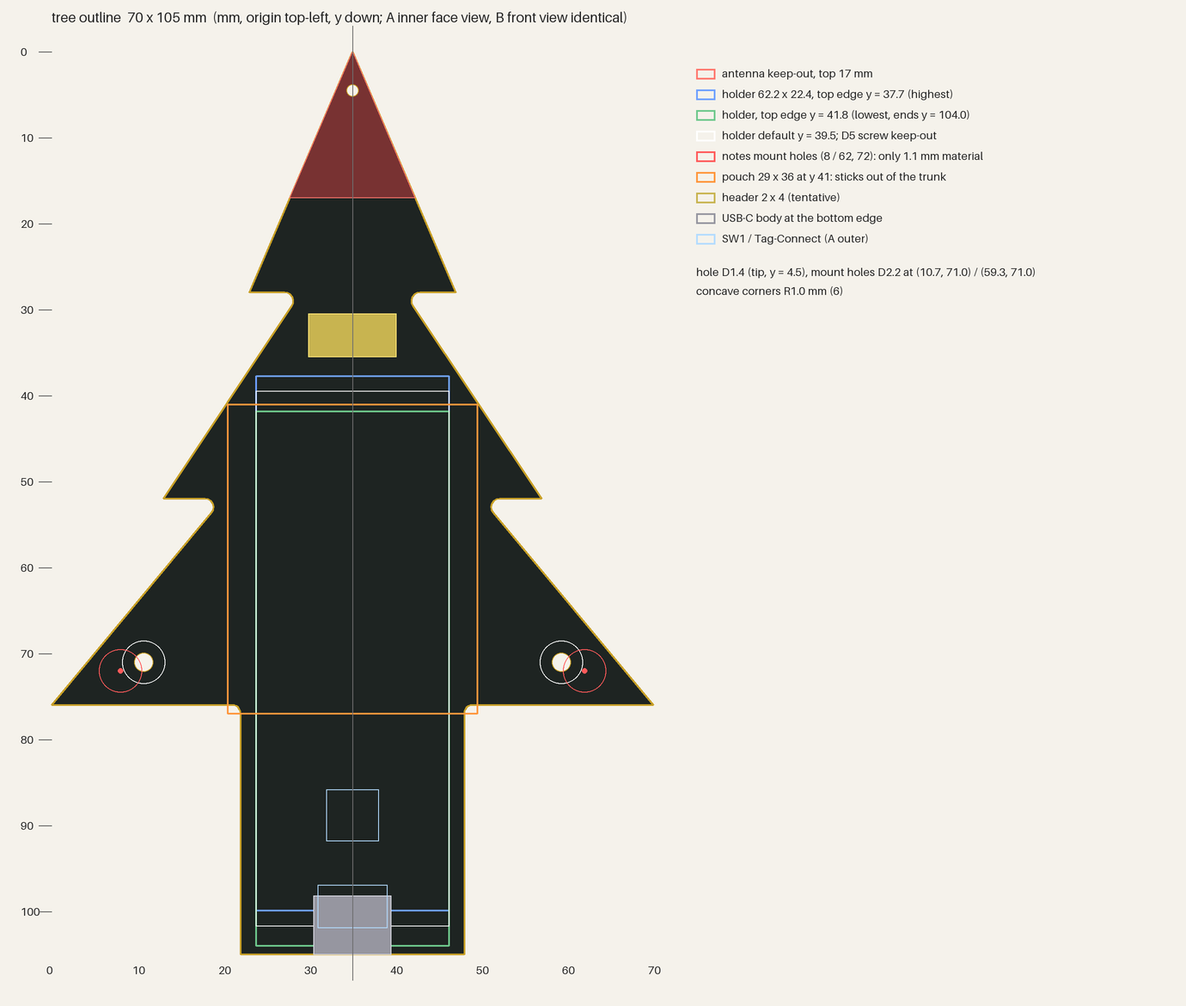
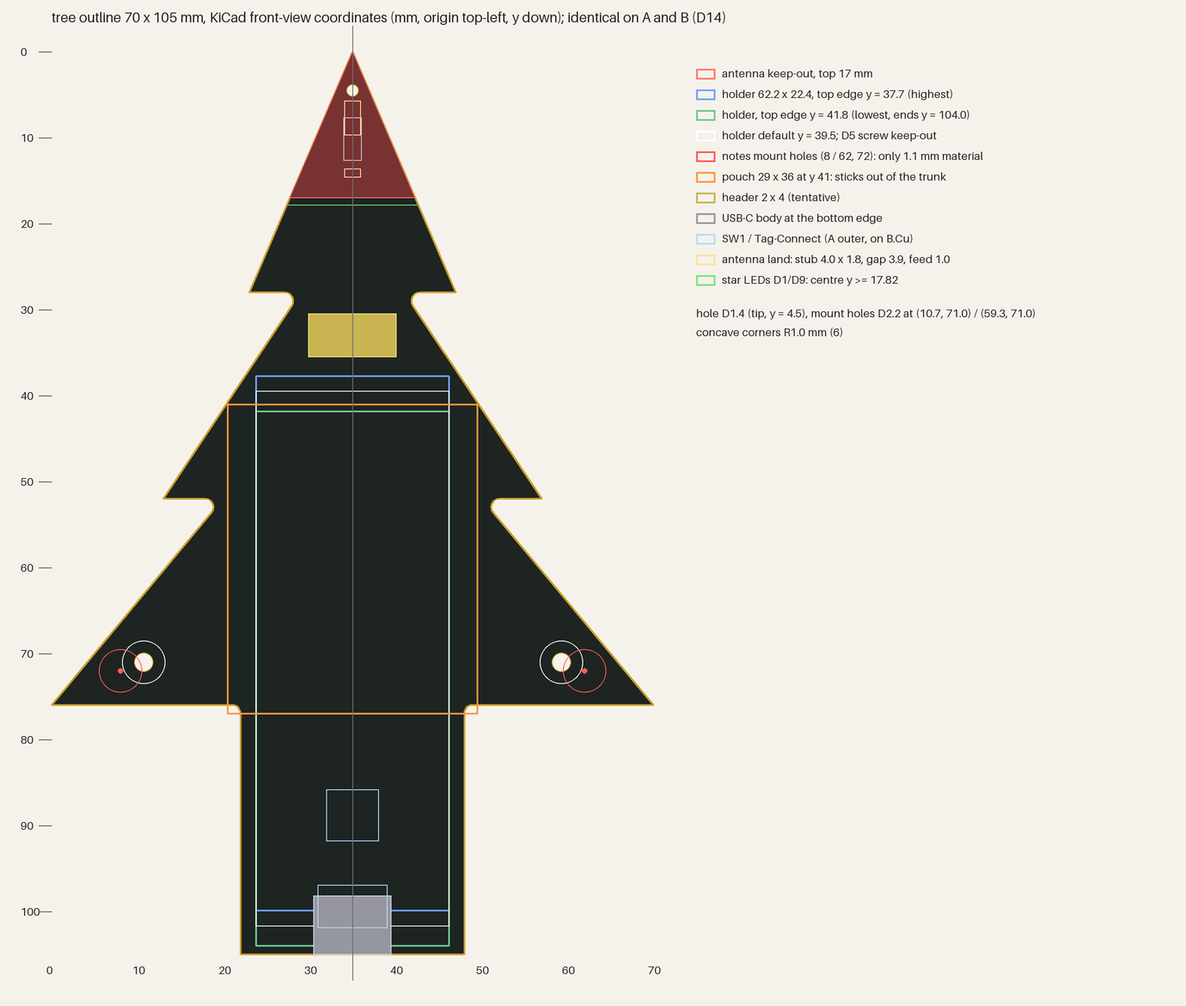
Outline module: D14 identity stack rule (mirror helpers removed), antenna land fit in the tip, star LED earliest y, MECHANICAL.md complete, previews

diff --git a/hardware/gen/tree_outline.py b/hardware/gen/tree_outline.py
@@ -8,17 +8,19 @@ CONVENTIONS
   Units mm.  Origin = top-left corner of the 70 x 105 mm bounding box, x to the right, y DOWN (the tip is at y = 0,
   the trunk bottom at y = 105).  KiCad's board coordinates are also y-down, so add one board origin offset and use
   the numbers as they are.  The DXF writer flips y (CAD convention y up, origin bottom-left).
+
   Views are "front view" = looking at the F.Cu side of the board (tree upright, tip up).
 
-MIRROR RULE (stack: A inner face = F.Cu, B inner face = B.Cu, the inner faces face each other)
-  Viewed from the B side (front of the sandwich) both boards are upright and unmirrored: a physical point has the
-  SAME (x, y) in A's and B's KiCad coordinates, so outline, holes and the header position are identical in both
-  files (no mirror).  What changes is only the layer: B's inner-face parts are on B.Cu.  If a drawing of B's INNER
-  face is compared with A's inner face (B turned about the vertical axis, as the engineer describes the assembly),
-  x_view = 70 - x (mirror_x).  All holes and the outline are left-right symmetric, so both views agree for them;
-  the rule only matters for asymmetric items (keyed header, LED positions, antenna feed side).
-  ARCHITECTURE.md says both "B is turned about the vertical axis" and "B inner = B.Cu": the first is the inner-face
-  view, the second is the KiCad assignment; see MECHANICAL.md, open item 1.
+STACK RULE (decision D14, hardware/DECISIONS.md; tree_common.B_MIRRORED_IN_STACK = False)
+  A's inner face is its F.Cu and B's outer face is its F.Cu: both point forward, so a point at (x, y) on one board is at
+  (x, y) on the other.  Outline, hanging hole, mount holes and the header position are identical in both files and no
+  mirrored-coordinate function exists in this module.  A's outer-face parts (D9-D16, SW1, Tag-Connect) sit on B.Cu and
+  only read mirrored when A is looked at from the back (as in the V3 Back mock-up); B's header is on B.Cu.
+
+COMMANDS (from the repository root)
+  python3 hardware/gen/tree_outline.py --selftest   checks, battery-fit rows, panel rows (about 12 s; needs numpy for the panel rows)
+  python3 hardware/gen/tree_outline.py --panel      table of the panel arrangements
+  python3 hardware/gen/tree_outline.py --all        writes hardware/panel/outline/ tree_outline.dxf, outline_preview.png, panel_arrangements.png (Pillow)
 
 MEASUREMENT (design/V3 * board A mock-ups, 10.19 px/mm, tip at y = 230 px, base at 1300 px, x centre 729 px)
   Left and right edges agree about x = 35 mm to +-0.1 mm.  Tier bases at 28 / 52 / 76 mm, half widths 12 / 22 / 35 mm,
@@ -296,20 +298,6 @@ USE_NOTES_MOUNT_HOLES = False             # engineer's switch: True = x 8 / 62, 
 MOUNT_HOLES = MOUNT_HOLES_NOTES if USE_NOTES_MOUNT_HOLES else MOUNT_HOLES_MOVED
 
 
-def mirror_x(x):
-    """x of the same point in the mirrored view (board turned about the vertical axis): 70 - x."""
-    return W - x
-
-
-def mirror_point(p):
-    return (mirror_x(p[0]), p[1])
-
-
-def b_view_from_inside(x, y):
-    """B's front-view (KiCad) coordinates -> coordinates in a drawing of B's INNER face (comparable with A's inner face)."""
-    return (mirror_x(x), y)
-
-
 def holes_for_board(board):
     """Hole list for a board's KiCad file: [(name, x, y, drill_mm, plated)].  Identical for A and B (see MIRROR RULE)."""
     assert board in ("A", "B")
@@ -331,6 +319,39 @@ ANT_KEEPOUT_H_MM = 17.0
 ANT_KEEPOUT_JOHANSON_EVAL_MM = (9.6, 18.0)        # no-ground end (length along the antenna axis, width), eval board only
 ANT_LAND_LENGTH_MM = 8.9                          # 2450AT42A100E land pattern, 1.0 feed pad + 3.9 gap + 4.0 stub pad
 ANT_LAND_STUB_MM = (4.0, 1.8)
+ANT_LAND_Y0 = HANG_HOLE[1] + HANG_HOLE_D / 2 + 0.5   # stub pad end nearest the tip, 0.5 mm below the hanging hole edge: 5.7 mm
+ANT_LAND_Y1 = ANT_LAND_Y0 + ANT_LAND_LENGTH_MM       # feed pad end: 14.6 mm; the feed line continues below, ground starts 1.0 mm after
+
+
+# Star LEDs D1 (B) and D9 (A), decision D8: just below the keep-out.  XL-1010RGB-YG land: pads 0.45 x 0.45 with 0.35 gaps =
+# 1.25 mm overall; the earliest centre keeps the pad edge 0.2 mm below the keep-out line.
+STAR_LED_PAD_OVERALL = 1.25
+STAR_LED_Y_MIN = ANT_KEEPOUT_H_MM + STAR_LED_PAD_OVERALL / 2 + 0.2         # 17.825 mm, round up to 17.85 when placing
+ANT_BODY_MM = (5.0, 2.0)                                                  # 2450AT42A100E L x W (Rev 2.0 p2)
+ANT_EDGE_CLEARANCE_MM = 0.5                                               # job: at least 0.5 mm of board beyond the land
+
+
+def ant_land_rects():
+    """Land pattern of the 2450AT42A100E along the tip axis (x = 35): stub pad 4.0 x 1.8 at the tip side, gap 3.9, feed pad
+    1.0 x 1.8; the body 5.0 x 2.0 sits on the two pads.  Returns {name: rect polygon}."""
+    sw = ANT_LAND_STUB_MM[1]
+    y0 = ANT_LAND_Y0
+    stub = rect_poly(CX, y0 + ANT_LAND_STUB_MM[0] / 2, sw, ANT_LAND_STUB_MM[0])
+    feed_y = y0 + ANT_LAND_STUB_MM[0] + 3.9
+    feed = rect_poly(CX, feed_y + 0.5, sw, 1.0)
+    cy = (y0 + ANT_LAND_Y1) / 2                       # body centred on the land: overlaps the pads by 0.5 mm
+    body = rect_poly(CX, cy, ANT_BODY_MM[1], ANT_BODY_MM[0])
+    return {"stub pad": stub, "feed pad": feed, "body": body}
+
+
+def ant_land_edge_clearance():
+    """Smallest distance from any land corner to the outline (mm) and the name of the part."""
+    best = None
+    for name, r in ant_land_rects().items():
+        d = min(dist_to_boundary(p, OUTLINE_POLY) for p in r)
+        if best is None or d < best[0]:
+            best = (d, name)
+    return best
 
 
 def ant_keepout_polygon(h=None):
@@ -921,6 +942,10 @@ def render_outline_preview(path, scale=10):
     poly(OUTLINE_POLY, fill=(30, 36, 34), outline=(200, 160, 40), width=2)
     # antenna keep-out
     poly(ant_keepout_polygon(), fill=(120, 50, 50), outline=(255, 120, 110), width=1)
+    # antenna land (stub pad, feed pad, body) and the earliest y of the star LEDs
+    for nm, r in ant_land_rects().items():
+        poly(r, outline=(255, 225, 160) if nm != "body" else (200, 200, 200), width=1)
+    d.line([P((CX - 7.5, STAR_LED_Y_MIN)), P((CX + 7.5, STAR_LED_Y_MIN))], fill=(120, 230, 120), width=1 * ss)
     # tab free zone etc: holder window
     rng = y_ranges_for_rect(CX, HOLDER_W, HOLDER_L, HOLDER_MARGIN_MM, y_step=0.1)
     ylo, yhi = rng[0]
@@ -949,7 +974,7 @@ def render_outline_preview(path, scale=10):
         d.line([P((-1.5, yy)), P((0, yy))], fill=(90, 90, 90), width=1 * ss)
     for xx in range(0, 71, 10):
         text((pad + xx * scale - 6, pad + H * scale + 10), "%d" % xx)
-    text((pad, 10), "tree outline  70 x 105 mm  (mm, origin top-left, y down; A inner face view, B front view identical)", fb)
+    text((pad, 10), "tree outline 70 x 105 mm, KiCad front-view coordinates (mm, origin top-left, y down); identical on A and B (D14)", fb)
     # legend
     lx = pad + W * scale + 50
     items = [((255, 120, 110), "antenna keep-out, top %.0f mm" % ANT_KEEPOUT_H_MM),
@@ -960,7 +985,9 @@ def render_outline_preview(path, scale=10):
              ((255, 150, 60), "pouch 29 x 36 at y 41: sticks out of the trunk"),
              ((200, 180, 80), "header 2 x 4 (tentative)"),
              ((150, 150, 160), "USB-C body at the bottom edge"),
-             ((180, 220, 255), "SW1 / Tag-Connect (A outer)")]
+             ((180, 220, 255), "SW1 / Tag-Connect (A outer, on B.Cu)"),
+             ((255, 225, 160), "antenna land: stub 4.0 x 1.8, gap 3.9, feed 1.0"),
+             ((120, 230, 120), "star LEDs D1/D9: centre y >= %.2f" % STAR_LED_Y_MIN)]
     for i, (col, label) in enumerate(items):
         yy = pad + 20 + i * 24
         d.rectangle([lx * ss, yy * ss, (lx + 22) * ss, (yy + 12) * ss], outline=col, width=2 * ss)
@@ -1079,6 +1106,14 @@ def selftest(verbose=True):
                "hole D%.1f at y %.1f: tip width there %.2f mm, board left round the hole %.2f mm (need %.1f)" % (HANG_HOLE_D, hy, tipw, ring, HANG_HOLE_MIN_RING))
     kt = ant_keepout_polygon()
     ok &= _row("OK" if point_in_poly(HANG_HOLE, kt) else "WARN", "hanging hole in antenna keep-out", "yes: hole must be NPTH (no copper in the keep-out)")
+    ecl, ename = ant_land_edge_clearance()
+    ok &= _row("OK" if ecl >= ANT_EDGE_CLEARANCE_MM and ANT_LAND_Y1 + 1.0 <= ANT_KEEPOUT_H_MM else "FAIL", "antenna footprint inside the tip",
+               "land y %.1f..%.1f (hole edge + 0.5 mm), tip %.2f mm wide at y %.1f, worst corner (%s) %.2f mm from the outline (need %.1f); ground from y %.1f, keep-out ends y %.1f" % (
+                   ANT_LAND_Y0, ANT_LAND_Y1, 2 * half_width(ANT_LAND_Y0), ANT_LAND_Y0, ename, ecl, ANT_EDGE_CLEARANCE_MM, ANT_LAND_Y1 + 1.0, ANT_KEEPOUT_H_MM))
+    led_c = (CX, STAR_LED_Y_MIN)
+    led_d = min(dist_to_boundary(p, OUTLINE_POLY) for p in rect_poly(led_c[0], led_c[1], STAR_LED_PAD_OVERALL, STAR_LED_PAD_OVERALL))
+    ok &= _row("OK" if led_d >= 0.3 and STAR_LED_Y_MIN - STAR_LED_PAD_OVERALL / 2 >= ANT_KEEPOUT_H_MM else "FAIL", "star LEDs D1/D9 earliest y (D8)",
+               "centre y >= %.2f (pad edge %.2f mm below the keep-out line y %.1f), %.2f mm to the outline there" % (STAR_LED_Y_MIN, STAR_LED_Y_MIN - STAR_LED_PAD_OVERALL / 2 - ANT_KEEPOUT_H_MM, ANT_KEEPOUT_H_MM, led_d))
     # mount holes
     need = MOUNT_KEEPOUT_D / 2 + MOUNT_MATERIAL_MM
     for name, pts in (("notes", MOUNT_HOLES_NOTES), ("used", MOUNT_HOLES)):
@@ -1093,8 +1128,8 @@ def selftest(verbose=True):
     mv = mount_hole_min_move(MOUNT_HOLES_NOTES[0])
     ok &= _row("OK" if abs(mv[0] - MOUNT_HOLES_MOVED[0][0]) <= 0.1 and abs(mv[1] - MOUNT_HOLES_MOVED[0][1]) <= 0.1 else "FAIL",
                "minimal move recomputed", "(8, 72) -> (%.2f, %.2f), move %.2f mm; constant (%.1f, %.1f)" % (mv[0], mv[1], mv[2], *MOUNT_HOLES_MOVED[0]))
-    ok &= _row("OK" if all(abs(MOUNT_HOLES_MOVED[1][i] - mirror_point(MOUNT_HOLES_MOVED[0])[i]) < 1e-9 for i in range(2)) else "FAIL",
-               "mount pattern left-right symmetric", "no 180-degree problem: B is turned about the vertical axis")
+    ok &= _row("OK" if abs(MOUNT_HOLES_MOVED[1][0] - (W - MOUNT_HOLES_MOVED[0][0])) < 1e-9 and MOUNT_HOLES_MOVED[0][1] == MOUNT_HOLES_MOVED[1][1] else "FAIL",
+               "mount pattern left-right symmetric", "no 180-degree or mirror problem; same (x, y) on A and B (D14)")
     dd = math.hypot(MOUNT_HOLES[0][0] - HANG_HOLE[0], MOUNT_HOLES[0][1] - HANG_HOLE[1])
     ok &= _row("OK" if dd > 20 else "FAIL", "hole to hole", "mount to hang %.1f mm" % dd)
     # keep-out sizes

diff --git a/hardware/panel/MECHANICAL.md b/hardware/panel/MECHANICAL.md
@@ -1,8 +1,9 @@
-# Mechanical: tree outline, holes, keep-outs, battery fit, stack (2026-11-23)
+# Mechanical: tree outline, holes, keep-outs, battery fit, stack, panel (2026-11-23)
 
 Single source of every number here: `python3 hardware/gen/tree_outline.py --selftest` (module `hardware/gen/tree_outline.py`,
 imported by the board generators and the panel script). Convention: mm, origin top-left of the 70 x 105 bounding box, x right,
-y DOWN (same as KiCad), tip at y = 0.
+y DOWN (same as KiCad), tip at y = 0. Files: `hardware/panel/outline/` (`tree_outline.dxf`, `outline_preview.png`,
+`panel_arrangements.png`, `measure_mockup.py`). Regenerate: `python3 hardware/gen/tree_outline.py --all`.
 
 ## 1. Battery fit: the key finding (first thing to read)
 
@@ -11,31 +12,162 @@ pads 55.75 mm apart along the long axis, 11.0 mm across. Margin to the outline 1
 
 | Question | Result (selftest rows `fit:`) |
 |---|---|
-| Does the 62.2 mm holder fit at all, upright and centred (x = 35)? | YES, but only in one window: top edge at y = 37.6 to 41.8 mm (covers y 37.6 to 99.8 at the top end, 41.8 to 104.0 at the bottom end). Above y = 37.6 tier 2 is too narrow (the holder's top corners need a half width of about 12.4 mm incl. the margin along the slope; tier 2 has 6 mm at y = 28 and grows 2/3 mm per mm); below y = 104 it hits the 1 mm margin to the bottom edge. |
+| Does the 62.2 mm holder fit at all, upright and centred (x = 35)? | YES, but only in one window: top edge at y = 37.6 to 41.8 mm (holder covers y 37.6 to 99.8 at the top end of the window, 41.8 to 104.0 at the bottom end). Above y = 37.6 tier 2 is too narrow (the holder's top corners need a half width of about 12.4 mm incl. the margin along the slope; tier 2 has 6 mm at y = 28 and grows 2/3 mm per mm); below y = 41.8 the bottom edge breaks the 1 mm margin. |
 | Sideways slack in the trunk | 26.0 mm trunk - 22.4 mm holder = 3.6 mm: 0.8 mm each side after the 1 mm margin. The holder cannot move off-centre. |
 | Does the holder fit rotated across tier 3 (62.2 along x)? | NO. It needs a half width of 32.1 mm over its whole 22.4 mm height; tier 3 reaches that only below y = 72.5 and ends at y = 76 (3.5 mm tall). Across tier 2 it is worse (22 mm half width at most). |
-| Holder pads inside the outline | yes, worst pad centre 6.3 mm from the edge. |
-| Holder against the USB-C opening at the bottom edge | The window ends at y = 99.8..104.0; the USB-C receptacle (8.95 x 6.85 mm body plus 1 mm) needs y >= 97.0. Overlap 2.8..7.0 mm. Longest holder that keeps the USB-C zone free: 59.4 mm (y 37.6 to 97.0), i.e. 2.8 mm shorter than the real holder. |
-| Original mock-up | Two AAA cells side by side, measured y about 50 to 94 mm (44 mm long, 22 mm wide; the job text said 63 to 94: the image shows 50 to 94). A 44.5 mm cell fits easily. The 62.2 mm holder is 17.7 mm longer than the cell (Keystone 1022 is 61.5 mm), so the mock-up's cell position is not the holder's. |
-| Pouch 36 x 29 mm (Adafruit 1578, 29 x 36 x 4.75) | Does NOT fit inside the outline. 29 mm wide cannot enter the 26 mm trunk, so it must stay between y about 41 and 76: tallest 29 wide rectangle is 32.0 mm with 1 mm margin, 34.5 mm with 0 margin (35.25 mm analytically, about 0.75 mm short of 36 on sharp corners). 36 mm across: no position. The mock-up's blue dashed 30 x 35 rectangle also overhangs the trunk by 2 mm each side. Options: allow the pouch to overhang the trunk edge by 1.5 mm each side (it is in the gap, not on a board), or a pouch no wider than 24 mm (any length up to 57 mm), or a taller trunk. |
-| Free area for parts on A's inner face (outline 2966 mm2, 0.3 mm copper-to-edge, antenna keep-out and the two D5 keep-outs removed) | holder at y_top 39.5: 1324 mm2 left (holder rectangle 1393 mm2); pouch 29 x 36 at y_top 40: 1683 mm2; nothing in the gap: 2725 mm2. |
+| Holder pads inside the outline | yes, worst pad centre 6.3 mm from the edge (pad count and size UNVERIFIED: the research gives the two pitches only). |
+| Holder against the USB-C opening at the bottom edge | The window ends at y = 99.8 to 104.0; the USB-C receptacle (8.95 x 6.85 mm body, plus 1 mm) needs y >= 97.0. Overlap 2.8 to 7.0 mm. Longest holder that keeps the USB-C zone free: 59.4 mm (y 37.6 to 97.0), 2.8 mm shorter than the real holder. |
+| Original mock-up | Two AAA cells side by side, measured y about 50 to 94 mm (44 mm long, 22 mm wide; the job text said 63 to 94, the image shows 50 to 94). A 44.5 mm cell fits easily. The 62.2 mm holder is 17.7 mm longer than the cell (Keystone 1022 is 61.5 mm), so the mock-up's cell position is not the holder's. |
+| Pouch 36 x 29 mm (Adafruit 1578, 29 x 36 x 4.75) | Does NOT fit inside the outline. 29 mm wide cannot enter the 26 mm trunk, so it must stay between y about 41 and 76: the tallest 29 mm wide rectangle is 32.0 mm with 1 mm margin and 34.5 mm with margin 0 (grid 0.25 mm; 35.25 mm on the sharp polygon), i.e. 1 to 4 mm short of 36. 36 mm across: no position. The mock-up's blue dashed 30 x 35 rectangle also overhangs the trunk by 2 mm each side. |
+| Free area for parts on A's inner face (outline 2966 mm2; 0.3 mm copper-to-edge; antenna keep-out and the two D5 keep-outs removed) | holder at y_top 39.5: 1324 mm2 left (holder rectangle 1393 mm2); pouch 29 x 36 at y_top 40: 1683 mm2; nothing in the gap: 2725 mm2. |
 
 Consequence: the holder takes the whole centre of the tree from tier 2 to the trunk bottom (y 38 to 100). What stays free on A's
-inner face with the holder in: the tip below the antenna keep-out (y 17 to 38, up to 24 mm wide) and the two wings of tier 3
-beside the holder (about 20 x 24 mm each, y 52 to 76). The header, nRF54L15, crystals, TPS63900 and the 8 resistors must go
+inner face with the holder in: the tip below the antenna keep-out (y 17 to 38, 14.6 mm wide at y 17 growing to about 25 mm at y 38) and the two wings of tier 3
+beside the holder (triangular: up to 24 mm wide at y 76, narrowing to 4 mm at y 52). The header, nRF54L15, crystals, TPS63900 and the 8 resistors must go
 into those areas. The mock-up's header position (y 41 to 46) lies inside the holder window and must move above y 37.
 
 Nearest layouts, with numbers (engineer decides; the layout builder needs one of them before placement):
 
 | # | Layout | Numbers | Cost | Catch |
 |---|---|---|---|---|
-| L1 | Holder upright, centred, top edge y 37.6 to 41.8 (default 39.5). USB-C footprint (variant B) overlaps the holder footprint: only one of the two is ever populated (D10: A = holder, B = pouch). | free area 1324 mm2 on A inner; holder bottom 99.8 to 104.0 | none | Courtyard overlap of two DNP-exclusive parts must be waived or one is hidden per variant; the pouch variant (29 x 36) does not fit (see above) |
-| L2 | Shorter holder (about 59 mm or less, side-by-side 2 x AAA) | keeps the USB-C zone free, y 37.6 to 97 | new part, unverified: no candidate looked up | datasheet and JLC stock needed |
-| L3 | Holder on board B's inner face (B carries no parts there) | A's inner face under it keeps only parts of 0.7 mm height (0402 caps); A is free of the holder | 2 more header pins (2 x 5 header) or two wires: netlist change | R5.1 says no power on the header; header is 8.5 + 3.2 mm, holder 11.3 mm leaves 0.7 mm |
-| L4 | Taller trunk (outline 105 -> 107.8 mm) | holder top at 37.6 + 62.2 = 99.8 mm must end at the USB-C zone start (y 97.0 for 105 mm): 2.8 mm more height, then USB-C zone free | PCB area (about 26 mm x 2.8 mm per board) | outline is the engineer's decision (R1.1); every y in this file moves |
+| L1 | Holder upright, centred, top edge y 37.6 to 41.8 (default 39.5). The USB-C footprint (variant B) overlaps the holder footprint: only one of the two is ever populated (D10: A = holder, B = pouch). | free area 1324 mm2 on A inner; holder bottom 99.8 to 104.0 | none | Courtyard overlap of two exclusive parts must be waived or hidden per variant; the pouch variant (29 x 36) does not fit (see above) |
+| L2 | Shorter holder (59 mm or less, side-by-side 2 x AAA) | keeps the USB-C zone free, y 37.6 to 97 | new part, no candidate looked up | datasheet and JLC stock needed |
+| L3 | Holder on board B's inner face (B carries no parts there) | A's inner face under it keeps only parts of 0.7 mm height (0402 caps); the wings stay free | 2 more header pins (2 x 5 header) or two wires: netlist change | R5.1 says no power on the header; the 11.3 mm holder leaves 0.7 mm to A |
+| L4 | Taller trunk (outline 105 -> 107.8 mm) | holder top at 37.6 + 62.2 = 99.8 mm must end at the USB-C zone start (y 97.0 for 105 mm): 2.8 mm more height | PCB area (about 26 mm x 2.8 mm per board) | outline is the engineer's decision (R1.1); every y in this file moves |
 | L5 | Rotated across tier 3 | impossible (numbers above) | - | - |
 
-Recommended default for the layout builder: L1 with the USB-C footprint placed under/at the holder's end as a DNP-exclusive
-footprint, header above y 37; open decision for the engineer: the pouch variant.
+Recommended default for the layout builder: L1, USB-C footprint at the bottom edge as an exclusive-with-holder footprint, header
+above y 37; open decision for the engineer: the pouch variant (it needs L4-like height or a narrower pouch).
 
-The remaining sections follow (outline, holes, keep-outs, height zones, panel, stack, openings, open items).
+## 2. Outline
+
+Measured from the Back/Inside mock-ups (10.19 px/mm, tip at y = 230 px, base at 1300 px, axis at x = 729.5 px): three tiers on a
+trunk, symmetric to better than 0.1 mm. `python3 hardware/panel/outline/measure_mockup.py`: 1995 edge samples, median deviation
+0.02 mm, 99 % within 0.10 mm (outliers are labels touching the drawing).
+
+| Vertex (right side, mirror for the left) | x | y | meaning |
+|---|---|---|---|
+| tip | 35.0 | 0.0 | |
+| tier 1 base, outer | 47.0 | 28.0 | half width 12 |
+| tier 1 shelf, inner | 41.0 | 28.0 | half width 6 (concave) |
+| tier 2 base, outer | 57.0 | 52.0 | half width 22 |
+| tier 2 shelf, inner | 50.0 | 52.0 | half width 15 (concave) |
+| tier 3 base, outer | 70.0 | 76.0 | half width 35 |
+| trunk top | 48.0 | 76.0 | half width 13 (concave) |
+| trunk bottom | 48.0 | 105.0 | trunk 26 wide, 29 tall |
+
+15 vertices, clockwise on screen (y down), exactly symmetric about x = 35 by construction (`OUTLINE_SHARP`). Edge slopes: tier 1 12/28,
+tier 2 16/24 (measured 0.667), tier 3 20/24 (measured 0.833). Area 2966 mm2 (bounding box 7350 mm2).
+Concave corners (6): fillet R1.0 mm (`CONCAVE_R`, the router bit cannot cut a sharp inside corner; the 0.8 mm minimum is the
+job's figure, the JLCPCB page value is UNVERIFIED). Convex corners stay sharp. `outline_segments()` returns lines and arcs
+(KiCad gr_line / gr_arc start, mid, end); `outline_polygon()` the point list.
+
+Stack rule (decision D14): no x mirror between A and B. A's inner face is its F.Cu, B's outer face is its F.Cu, both point forward, so a
+point at (x, y) on one board is at (x, y) on the other (`tree_common.B_MIRRORED_IN_STACK = False`). Outline, hanging hole, mount
+holes and the header position are the same numbers in both KiCad files; the module has no mirrored-coordinate function. A's
+outer-face parts (D9-D16, SW1, Tag-Connect) are on B.Cu and only read mirrored in a view from the back (V3 Back mock-up). The
+previews use KiCad front-view coordinates, same as the V3 Inside / Front mock-ups.
+
+## 3. Holes
+
+| Hole | Position | Notes |
+|---|---|---|
+| Hanging, D1.4 through both boards | (35.0, 4.5) | mock-up: 4.4 mm below the tip. Tip is 3.86 mm wide there; 1.07 mm of board left round the hole (need 0.5). Non-plated, no copper ring (it lies in the antenna keep-out; the mock-up's copper ring is dropped). |
+| Mount 1, M2 clearance D2.2 | (10.7, 71.0) | moved from the notes' (8.0, 72.0) |
+| Mount 2 | (59.3, 71.0) | moved from (62.0, 72.0), mirror |
+
+The notes' mount coordinates collide with the job rule (2.5 mm of material round the D5 keep-out, i.e. 5.0 mm centre to outline):
+at (8, 72) the centre is 3.59 mm from the slanted edge, leaving 1.09 mm round the keep-out (the bottom edge of tier 3 leaves 1.5 mm).
+Minimal move found by search: (10.70, 71.00), 2.88 mm. `USE_NOTES_MOUNT_HOLES = True` in the module restores x 8 / 62, y 72.
+Pattern: left-right symmetric (no 180-degree or mirror problem). Two holes only: the stack relies on the header as the third point.
+`holes_for_board(board)` returns the list for either board; it is identical for A and B.
+
+## 4. Keep-outs and zones (data in the module)
+
+- Antenna keep-out, both boards, no copper, no vias, no parts on any layer: top `ANT_KEEPOUT_H_MM` = 17.0 mm of the tip triangle
+  (area 123.9 mm2, 14.6 mm wide at its base). Only A's antenna land and feed are exceptions (layout builder), nothing on B.
+  Johanson (2450AT42A100E, Rev 2.0 p3) gives only the evaluation board: 39.6 x 18 mm, 9.6 mm long x 18 mm wide no-ground end;
+  nothing for sides and ends separately (the 1206 alternate: 6.5 x 6.5 mm). Our tip is narrower than 18 mm everywhere: bench tuning.
+  Land pattern along the tip axis (selftest row "antenna footprint inside the tip"): stub pad (4.0 x 1.8) tip side starts at y 5.7
+  (0.5 mm below the hanging hole edge), gap 3.9, feed pad ends y 14.6, ground from y 15.6 (1.0 mm clear). The tip is 4.89 mm wide
+  at y 5.7 and 12.4 mm wide at y 14.6; the worst land corner (stub pad, tip side) is 1.42 mm from the outline (rule: 0.5 mm), the
+  5.0 x 2.0 body is further in. So the footprint fits the tip triangle; the 17 mm keep-out ends 2.4 mm below the feed pad.
+  Star LEDs D1 and D9 (D8): earliest centre y = 17.82 mm (XL-1010RGB-YG pads 1.25 mm overall, pad edge 0.2 mm below the keep-out
+  line), 6.2 mm from the outline there; use 17.85.
+- Tabs avoid the keep-out (+1 mm) and the USB-C zone (+1.5 mm) (`board_avoid_zones`).
+
+Component height zones (`height_zones()`; heights from the board face; the gap is 12.0 mm):
+
+| Zone | Board, face | Position (x, y) | Height | Status |
+|---|---|---|---|---|
+| battery holder 62.2 x 22.4 | A inner | centre (35, 70.6) at y_top 39.5 | 11.3 mm (0.7 mm to B) | maker data (research digest) |
+| header 2 x 4 mated | A inner (female) + B inner (male) | (35, 33.0) tentative | 8.5 + 3.2 = 11.7 mm | UNVERIFIED body size |
+| USB-C receptacle | A inner, bottom edge | x 30.5 to 39.5, y 98.15 to 105 | 3.16 mm | HC-TYPE-C drawing sheet 1/2 |
+| antenna 2450AT42A100E | A inner, tip | land y 5.7 to 14.6 | 1.1 mm | datasheet Rev 2.0 p2 |
+| SW1 | A outer, trunk | (35, 88.8) mock-up | not known | MISSING (switch not chosen) |
+| Tag-Connect TC2030-NL | A outer, trunk | (35, 99.4) mock-up | pads only | block 8 x 5 mm UNVERIFIED |
+| nylon screw heads | A outer and B outer | at the mount holes, keep-out D5 | about 1.3 mm | UNVERIFIED |
+| RGB LEDs | both outer faces | everywhere | 0.4 mm | job figure, datasheet height not read |
+
+## 5. Stack
+
+- Two boards 1.0 mm, gap 12.0 mm (inner face to inner face): 14.0 mm over both boards, 14.8 mm with 0.4 mm LEDs on both outer
+  faces. D3 says "about 14.5 mm": not reproduced by this arithmetic (14.0 or 14.8); the difference is 0.3 mm, check which LED
+  height the 14.5 assumed.
+- Standoffs M2 nylon F-F 12 mm, screws M2 x 5 nylon, hole D2.2, keep-out D5. Thread engagement about 5 - 1.0 (board) - 1.3 (head)
+  = 2.7 mm (head height UNVERIFIED); an M2 x 6 screw gives 3.7 mm.
+- Header: SMD female 8.5 mm on A + SMD male 3.2 mm plastic on B = 11.7 mm mated, 0.3 mm short of the gap, insertion 5.7 mm
+  (research digest, heights UNVERIFIED until the parts arrive). The holder (11.3 mm) and the mated header both fit the 12 mm gap.
+- Antenna keep-out copper-free on both boards; nothing metal over it in the housing.
+
+## 6. Panel (`panel_arrangements()`, no KiCad panel yet)
+
+Rules used: gap 2.0 mm board to board and board to rail, rails 5 mm, mouse bites hole D0.6, 0.35 mm edge to edge (0.95 mm
+pitch), 5 holes per tab = 4.40 mm wide tab (8 holes = 7.25 mm), holes centred on the board outline (so keep copper >= 0.6 mm
+from the outline in the tab zones). Rails 'X' = along the top and bottom, 'XY' = frame on all four sides.
+"B turned 180 deg" is a rotation in the panel plane only (the board file is unchanged; the panel builder rotates it, assembly rotates the CPL by 180 deg).
+Arrangement 3 is read as "the nested pair in a four-sided frame" (rails XY); the job text is ambiguous (item 6 below).
+
+| Arrangement | Rails | Panel mm | Area mm2 | Over 102 x 102 |
+|---|---|---|---|---|
+| 1 side by side, both upright (B at dx = 72.0) | X | 142.0 x 119.0 | 16898 | yes |
+| 2 B turned 180 deg, nested (B at dx = 44.8, dy = 1.0) | X | 114.8 x 120.0 | 13776 | yes (smallest) |
+| 1 side by side | XY | 156.0 x 119.0 | 18564 | yes |
+| 3 nested in a four-sided frame | XY | 128.8 x 120.0 | 15456 | yes |
+| 1 side by side, rails left and right (no flat edge faces them) | Y | 156.0 x 105.0 | 16380 | yes (information only) |
+
+Every panel is over 102 x 102 mm: a single board is already 105 mm tall, so the 102 x 102 mm price tier cannot be met by any
+arrangement (flag set, not a gate failure). Smallest: arrangement 2 (13776 mm2), 18 % below side by side with the same rails.
+Tabs (selftest checks width >= 4 mm, 5 holes, gap 2.0 mm, none in the antenna keep-out):
+- Arrangement 2: 4 tabs between A and B on A's slanted edges (A local: tier 2 edge (44.6, 33.4) and (51.7, 44.0); tier 3 edge
+  (60.2, 64.2) and (67.6, 73.1); tab lengths 2.3 to 3.7 mm, not parallel edges: trapezoid tabs) and 4 to the rails (A trunk bottom
+  at x 25.2 and 44.8, B's trunk end at the other rail, 3.0 mm long, clear of the USB-C zone).
+- Arrangement 1: only 4 tabs to the bottom rail (trunks at x 25.2 and 44.8); no edge of A faces B or the top rail, so each tree is
+  held by its trunk only. Weak (cantilever of 105 mm); needs top tabs, which would sit at the antenna tip or on the slanted edges.
+Fiducials 1 mm / 2 mm mask, 3 to 4 per panel, tool holes 2 mm: JLC pages disagree (research digest), ask support.
+
+## 7. What the housing designer needs
+
+Housing: transparent 3D print around the 70 x 105 x 14.8 mm stack (DXF outline: `outline/tree_outline.dxf`).
+Openings and access:
+1. Hanging hole D1.4 at (35, 4.5), through both boards and the shell (a loop or eyelet on the shell at the tip).
+2. USB-C opening (variant B), bottom edge of A, centred x = 35, width 8.95 mm + 0.3 mm each side, height 3.16 mm above A's inner
+   face (board surface at z = 13.0 from B's outer face: B 1.0 + gap 12.0 puts A's inner face at 13.0).
+3. Battery door or removable shell over the holder: cells load from the top (towards B), holder y 37.6 to 104.0 (default 39.5 to 101.7).
+4. SW1 button access on A's outer face (35, 88.8); Tag-Connect cable access at (35, 99.4) (removable part or opening).
+5. Screw access D5 at the mount holes (10.7, 71.0) and (59.3, 71.0), nylon heads on both outer faces.
+6. Clearance for LEDs 0.4 mm on both outer faces; transparent shell at the tip: no metal.
+7. STEP of the assembled stack: not produced yet (the 3D models of the holder, header and USB-C part are not in the repo).
+
+## 8. Open items and decisions
+
+1. (closed by D14) No x mirror between A and B; identity coordinates.
+2. Holder layout (section 1): L1 default; L2/L3/L4 cost; the pouch variant does not fit (engineer).
+3. Mount holes: moved to (10.7, 71.0) / (59.3, 71.0) because of the 2.5 mm material rule; keep (8, 72) / (62, 72) with 1.09 mm material
+   round the D5 keep-out? (engineer; module switch `USE_NOTES_MOUNT_HOLES`).
+4. (closed) Hanging hole is non-plated, no copper ring (coordinator's decision).
+5. Antenna keep-out size (17 mm default; Johanson shows 9.6 x 18 mm only on its own board): layout builder with a VNA.
+6. Panel: arrangement 3 reading; JLC support questions: two designs in one panel, price tier above 102 x 102, rails.
+7. D3 thickness 14.5 mm vs 14.0 / 14.8 mm (section 5).
+8. Unverified: holder pad count and size, header body sizes, screw head height, LED height, switch, Tag-Connect block, USB-C
+   flush edge (+-0.3 mm), JLC inside-corner radius, 3D models.
